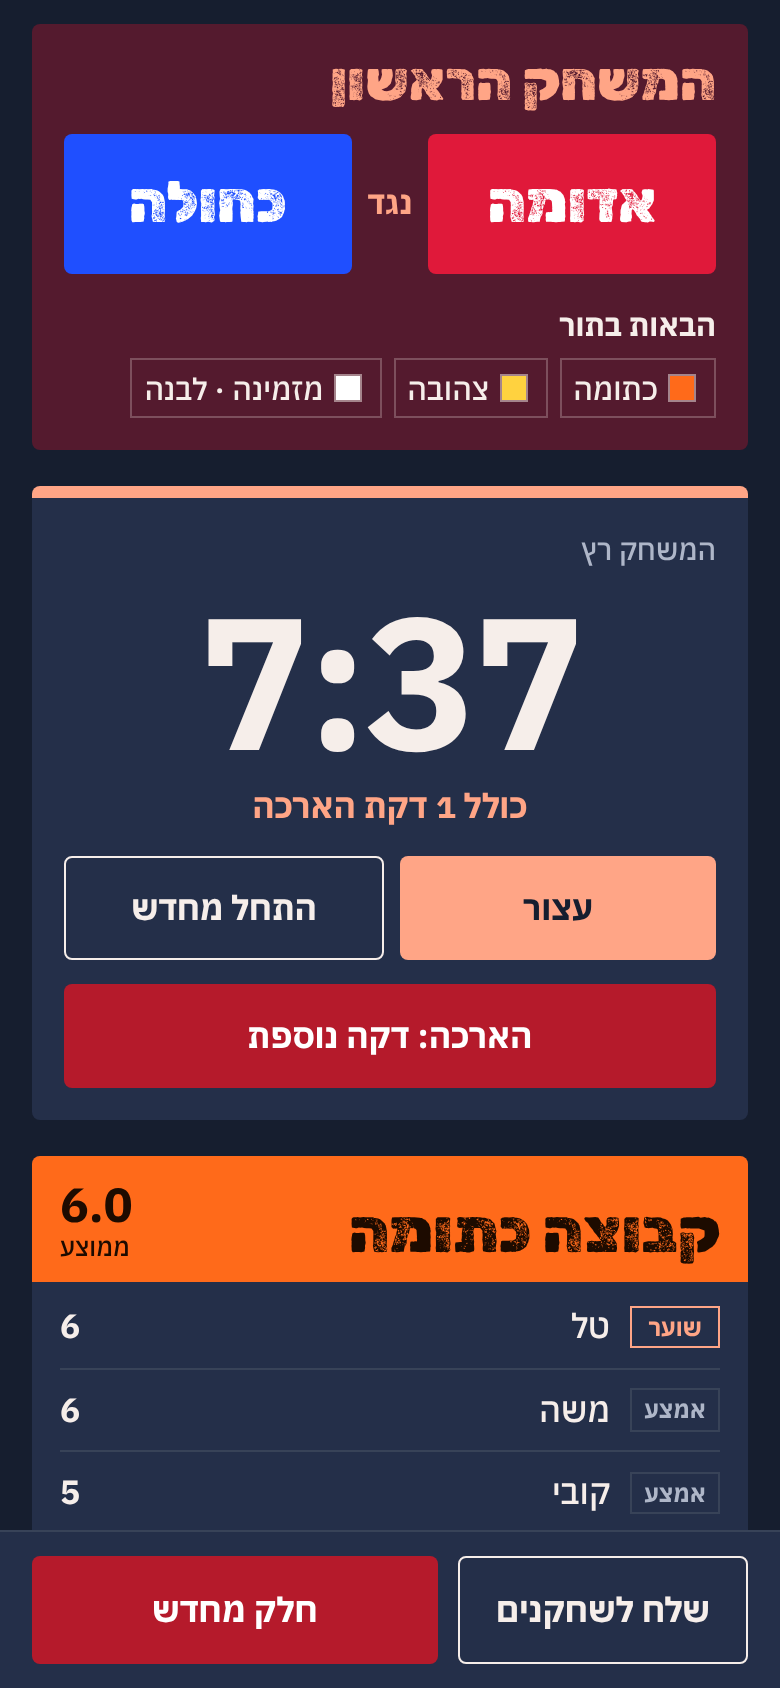
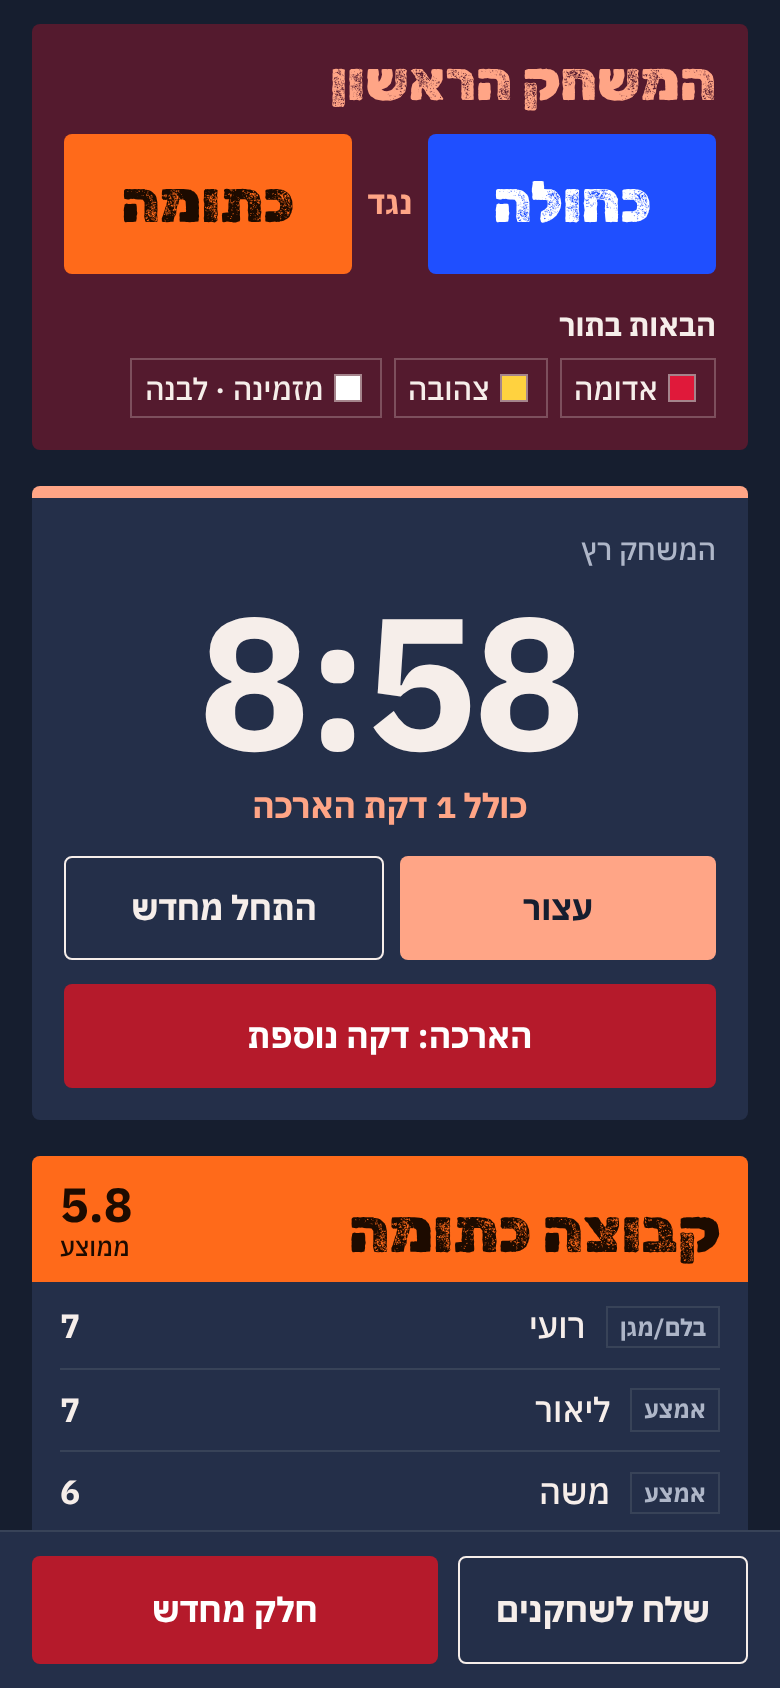
Positions: defence, midfield and attack
The goalkeeper position is replaced by defence (בלם/מגן). Teams no longer
get a goalkeeper first; all three positions are spread by the same
stacking penalty. Existing goalkeepers become defenders, and an old 'gk'
value is read as defence.

diff --git a/web/src/main.js b/web/src/main.js
@@ -1,4 +1,4 @@
-import { POS, LIMITS, bib, bibStyle, plan, balance, shuffle, makeDraw, applyWin, applyTie } from './teams.js';
+import { POS, normPos, LIMITS, bib, bibStyle, plan, balance, shuffle, makeDraw, applyWin, applyTie } from './teams.js';
 import { DEMO, serverNow, createGroup, loadGroup, saveGroup, viewGroup, registerPlayer, unregisterPlayer, errText } from './api.js';
 
 const $app = document.getElementById('app');
@@ -80,7 +80,7 @@ function teamsHtml(S, { ratings, dealt }) {
     return `<section class="team ${t.waiting ? 'waiting' : ''}" style="${bibStyle(b)}" aria-label="קבוצה ${b.name}">
       <div class="team-head"><h3>${t.waiting ? '<span class="sub">קבוצה מזמינה</span>' : ''}קבוצה ${b.name}</h3>
       ${ratings ? `<div class="avg"><b class="num">${a.toFixed(1)}</b><span>ממוצע</span></div>` : `<div class="avg"><span class="num">${ps.length} שחקנים</span></div>`}</div>
-      <ol>${ps.map((p) => `<li><span class="who"><span class="tag ${p.pos === 'gk' ? 'gk' : ''}">${POS[p.pos] || ''}</span><span>${esc(p.name)}</span></span>${ratings ? `<span class="r num">${p.rating}</span>` : ''}</li>`).join('')}</ol>
+      <ol>${ps.map((p) => `<li><span class="who"><span class="tag">${POS[normPos(p.pos)]}</span><span>${esc(p.name)}</span></span>${ratings ? `<span class="r num">${p.rating}</span>` : ''}</li>`).join('')}</ol>
     </section>`;
   }).join('') + '</div>';
 }
@@ -191,6 +191,7 @@ async function startManager(id) {
     const r = await loadGroup(M.id, M.secret);
     M.name = r.name; M.code = r.view_code;
     M.S = Object.assign(freshState(), r.state || {});
+    M.S.players.forEach((p) => { p.pos = normPos(p.pos); });
     rememberGroup({ id: M.id, secret: M.secret, name: M.name, code: M.code });
     takeSignups(r.signups);
     renderManager();
@@ -212,10 +213,10 @@ function takeSignups(list) {
     const p = M.S.players.find((q) => (x.pid && q.id === x.pid) || norm(q.name) === norm(x.name));
     if (p) {
       p.here = true;
-      if (x.pos) p.pos = x.pos;
+      if (x.pos) p.pos = normPos(x.pos);
       M.taken.push(x.id);
       changed = true;
-    } else M.signups.push(x);
+    } else M.signups.push(Object.assign({}, x, { pos: normPos(x.pos) }));
   }
   if (changed) persist();
   return changed;
@@ -555,7 +556,7 @@ function signupHtml(compact) {
   let h = '<section class="signup" aria-label="הרשמה למשחק">';
   if (me && listed && !V.editing) {
     const stillPending = (V.data.signups || []).some((x) => x.id === me.id);
-    h += `<div class="signup-done"><span class="tick" aria-hidden="true"></span><div><b>נרשמת למשחק</b><span>${esc(me.name)} · ${POS[me.pos] || ''}</span></div>
+    h += `<div class="signup-done"><span class="tick" aria-hidden="true"></span><div><b>נרשמת למשחק</b><span>${esc(me.name)} · ${POS[normPos(me.pos)]}</span></div>
       <div class="acts"><button type="button" class="linkbtn" data-act="v-edit">שנה עמדה</button>${stillPending ? '<button type="button" class="linkbtn" data-act="v-cancel">ביטול</button>' : ''}</div></div>`;
   } else {
     const pos = V.pos || (me && me.pos) || '';
@@ -571,7 +572,7 @@ function signupHtml(compact) {
       </form>`;
   }
   if (list.length) {
-    h += `<div class="coming"><h3>מגיעים למשחק הקרוב <span class="num">${list.length}</span></h3><ul>${list.map((p) => `<li class="${isMe(p) ? 'me' : ''}"><span class="tag ${p.pos === 'gk' ? 'gk' : ''}">${POS[p.pos] || ''}</span><span>${esc(p.name)}</span></li>`).join('')}</ul></div>`;
+    h += `<div class="coming"><h3>מגיעים למשחק הקרוב <span class="num">${list.length}</span></h3><ul>${list.map((p) => `<li class="${isMe(p) ? 'me' : ''}"><span class="tag">${POS[normPos(p.pos)]}</span><span>${esc(p.name)}</span></li>`).join('')}</ul></div>`;
   }
   return h + '</section>';
 }
@@ -612,7 +613,7 @@ function bindPlayer() {
     e.preventDefault();
     const name = $('#regName').value.trim();
     if (!name) return;
-    if (!V.pos) { toast('בחר עמדה: שוער, אמצע או התקפה', true); return; }
+    if (!V.pos) { toast('בחר עמדה: בלם/מגן, אמצע או התקפה', true); return; }
     V.busy = true;
     e.target.querySelector('[type=submit]').disabled = true;
     try {

diff --git a/web/src/teams.js b/web/src/teams.js
@@ -13,7 +13,9 @@ export const BIBS = [
   { id: 'sky', name: 'תכלת', c: '#3cc8f5', ink: '#001a24' },
 ];
 
-export const POS = { gk: 'שוער', mid: 'אמצע', att: 'התקפה' };
+export const POS = { def: 'בלם/מגן', mid: 'אמצע', att: 'התקפה' };
+/** Older data used a goalkeeper position; it is now defence. */
+export const normPos = (p) => (p === 'gk' ? 'def' : POS[p] ? p : 'mid');
 
 export const LIMITS = { teams: [3, 10], size: [2, 11], rating: [1, 10], minutes: [1, 30] };
 
@@ -31,8 +33,8 @@ const avg = (t) => (t.ps.length ? t.ps.reduce((a, p) => a + p.rating, 0) / t.ps.
 
 /**
  * Splits players into balanced teams.
- * Goalkeepers are spread first (one per full team), then everyone else is placed greedily
- * by rating with a penalty for stacking one position, and finally same-position swaps
+ * Players are placed greedily, strongest first, to the team with the lowest average,
+ * with a penalty for stacking one position (defence, midfield, attack), and finally same-position swaps
  * reduce the variance of team averages. Small noise makes every reshuffle different.
  */
 export function balance(players, T, size, rand = Math.random) {
@@ -42,27 +44,8 @@ export function balance(players, T, size, rand = Math.random) {
   const teams = caps.map((c) => ({ cap: c, ps: [], sum: 0 }));
   const noisy = (p) => p.rating + (rand() - 0.5) * 0.9;
   const load = (t) => t.sum / t.cap;
-  const fullIdx = teams.map((t, i) => i).filter((i) => i < P.full);
-  const allIdx = teams.map((t, i) => i);
-  const hasGk = (t) => t.ps.some((p) => p.pos === 'gk');
-
-  const extraGk = [];
   players
-    .filter((p) => p.pos === 'gk')
-    .sort((a, b) => noisy(b) - noisy(a))
-    .forEach((g) => {
-      let open = fullIdx.filter((i) => !hasGk(teams[i])).sort((a, b) => load(teams[a]) - load(teams[b]));
-      if (!open.length) open = allIdx.filter((i) => teams[i].ps.length < teams[i].cap && !hasGk(teams[i]));
-      if (open.length) {
-        const t = teams[open[0]];
-        t.ps.push(g);
-        t.sum += g.rating;
-      } else extraGk.push(g);
-    });
-
-  players
-    .filter((p) => p.pos !== 'gk')
-    .concat(extraGk)
+    .map((p) => ({ ...p, pos: normPos(p.pos) }))
     .map((p) => ({ p, k: noisy(p) }))
     .sort((a, b) => b.k - a.k)
     .forEach(({ p }) => {
@@ -71,7 +54,7 @@ export function balance(players, T, size, rand = Math.random) {
       for (const t of teams) {
         if (t.ps.length >= t.cap) continue;
         const same = t.ps.filter((q) => q.pos === p.pos).length;
-        const score = t.sum / t.cap + same * 0.8 + rand() * 0.05;
+        const score = load(t) + same * 0.8 + rand() * 0.05;
         if (score < bestScore) { bestScore = score; best = t; }
       }
       best.ps.push(p);
@@ -107,7 +90,7 @@ export function balance(players, T, size, rand = Math.random) {
     [teams[i].ps[x], teams[j].ps[y]] = [teams[j].ps[y], teams[i].ps[x]];
   }
 
-  const order = { gk: 0, mid: 1, att: 2 };
+  const order = { def: 0, mid: 1, att: 2 };
   const out = teams.map((t, i) => ({
     bib: BIBS[i].id,
     waiting: i >= P.full,

diff --git a/web/src/api.js b/web/src/api.js
@@ -33,11 +33,11 @@ async function rpc(fn, args) {
 
 /* ---------- demo adapter ---------- */
 const SAMPLE = [
-  ['אבי', 8, 'att'], ['משה', 6, 'mid'], ['דני', 9, 'att'], ['יוסי', 5, 'mid'], ['רועי', 7, 'gk'],
+  ['אבי', 8, 'att'], ['משה', 6, 'mid'], ['דני', 9, 'att'], ['יוסי', 5, 'def'], ['רועי', 7, 'def'],
   ['עומר', 4, 'mid'], ['איתי', 7, 'att'], ['נועם', 6, 'mid'], ['גיל', 3, 'att'], ['שחר', 8, 'mid'],
-  ['טל', 6, 'gk'], ['אורי', 5, 'att'], ['ליאור', 7, 'mid'], ['בן', 4, 'att'], ['עידו', 9, 'mid'],
-  ['רז', 5, 'gk'], ['אלון', 6, 'att'], ['תומר', 2, 'mid'], ['יונתן', 6, 'mid'], ['אסף', 7, 'att'],
-  ['קובי', 5, 'mid'], ['ניר', 8, 'gk'],
+  ['טל', 6, 'def'], ['אורי', 5, 'att'], ['ליאור', 7, 'mid'], ['בן', 4, 'att'], ['עידו', 9, 'mid'],
+  ['רז', 5, 'def'], ['אלון', 6, 'att'], ['תומר', 2, 'def'], ['יונתן', 6, 'mid'], ['אסף', 7, 'att'],
+  ['קובי', 5, 'mid'], ['ניר', 8, 'def'],
 ];
 const DEMO_KEY = 'asphalt.demo';
 function demoRow() {
@@ -53,7 +53,7 @@ function demoRow() {
     },
     signups: [
       { id: 'rd1', name: 'אליה', pos: 'att' },
-      { id: 'rd2', name: 'מתן', pos: 'gk' },
+      { id: 'rd2', name: 'מתן', pos: 'def' },
       { id: 'rd3', name: 'שגיא', pos: 'mid' },
     ],
   };

diff --git a/web/styles.css b/web/styles.css
@@ -94,7 +94,6 @@ ul.roster li.away .name,ul.roster li.away .pos{opacity:.4}
 .team li:last-child{border-bottom:0}
 .team li .who{display:flex;align-items:center;gap:10px;min-width:0;font-weight:500}
 .tag{font-size:.74rem;font-weight:700;padding:1px 6px;border:1px solid var(--line);color:var(--muted);flex:none;min-width:3.8em;text-align:center}
-.tag.gk{border-color:var(--hi);color:var(--hi)}
 .team li .r{font-weight:700;font-size:1.05rem;line-height:1}
 .fair{margin-top:14px;font-size:.95rem;color:var(--muted)}
 

diff --git a/README.md b/README.md
@@ -55,9 +55,9 @@
 ## Features
 
 - **No accounts.** Create a group with a name. You get a private manager link and a separate link for players, where they sign up by name only.
-- **Players sign themselves up.** The player link opens with a short form: name and position (goalkeeper, midfield, attack). Everyone sees who is coming to the next game. A regular who signs up is simply marked as coming; a new name waits for the manager, who only has to give a rating and tap add.
-- **Squad that remembers.** Add each regular once with a position (goalkeeper, midfield, attack) and a 1–10 rating. Before each game, players sign up or you tick who is coming.
-- **Fair split.** Pick 3 to 10 teams and players per team. Every full team gets a goalkeeper, positions are mixed, and averages are balanced. Leftover players form the waiting team (קבוצה מזמינה).
+- **Players sign themselves up.** The player link opens with a short form: name and position (defence, midfield, attack). Everyone sees who is coming to the next game. A regular who signs up is simply marked as coming; a new name waits for the manager, who only has to give a rating and tap add.
+- **Squad that remembers.** Add each regular once with a position (defence, midfield, attack) and a 1–10 rating. Before each game, players sign up or you tick who is coming.
+- **Fair split.** Pick 3 to 10 teams and players per team. Defenders, midfielders and attackers are spread across the teams, and averages are balanced. Leftover players form the waiting team (קבוצה מזמינה).
 - **Opening draw.** One tap draws the two teams that kick off. The rest queue in random order, with the waiting team last.
 - **Match clock.** Set the length (8 minutes by default), start, pause for a ball over the fence or a penalty argument, resume or restart. When teams are waiting, add extra time one minute at a time. A whistle sounds when time is up, and the screen stays awake while the clock runs.
 - **Rotation.** Pick the winner: the winner stays, the loser goes to the back, the next team comes on. On a draw with one team waiting it goes to penalties; with two or more waiting, both drawn teams step off and the next two come on.
@@ -67,11 +67,10 @@
 
 ## How the split works
 
-`web/src/teams.js` builds teams in three passes:
+`web/src/teams.js` builds teams in two passes:
 
-1. **Goalkeepers first**, one per full team, each to the currently weakest team.
-2. **Everyone else, strongest first**, to the team with the lowest average so far, with a penalty for stacking one position in the same team.
-3. **Swaps.** Same-position players are swapped between teams while it lowers the variance of team averages.
+1. **Strongest first**, each player goes to the team with the lowest average so far, with a penalty for stacking one position (defence, midfield, attack) in the same team.
+2. **Swaps.** Same-position players are swapped between teams while it lowers the variance of team averages.
 
 A little noise on each rating means **Split again** gives a different but equally fair result. With the sample squad the gap between the strongest and weakest full team is usually under half a rating point.
 
@@ -141,6 +140,7 @@ Routes live in `web/_redirects` and security headers in `web/_headers`; both hos
 
 ## Version history
 
+- **v2.2 · Positions.** Defence (בלם/מגן), midfield and attack; the goalkeeper position is gone and existing goalkeepers became defenders. Players get their own `asphalt_players` table.
 - **v2.1 · Self sign-up.** Players sign up from the player link with a name and a position; the manager only rates new names.
 - **v2 · Asphalt FC.** New name and design, goalkeeper/midfield/attack positions, 3–10 teams of any size, waiting team, opening draw, match clock with extra time, winner-stays rotation with draw rules, live player view.
 - **v1 · tiko.** The first version: fixed teams of five, self sign-up and RSVP links, captains, penalties and game history.
